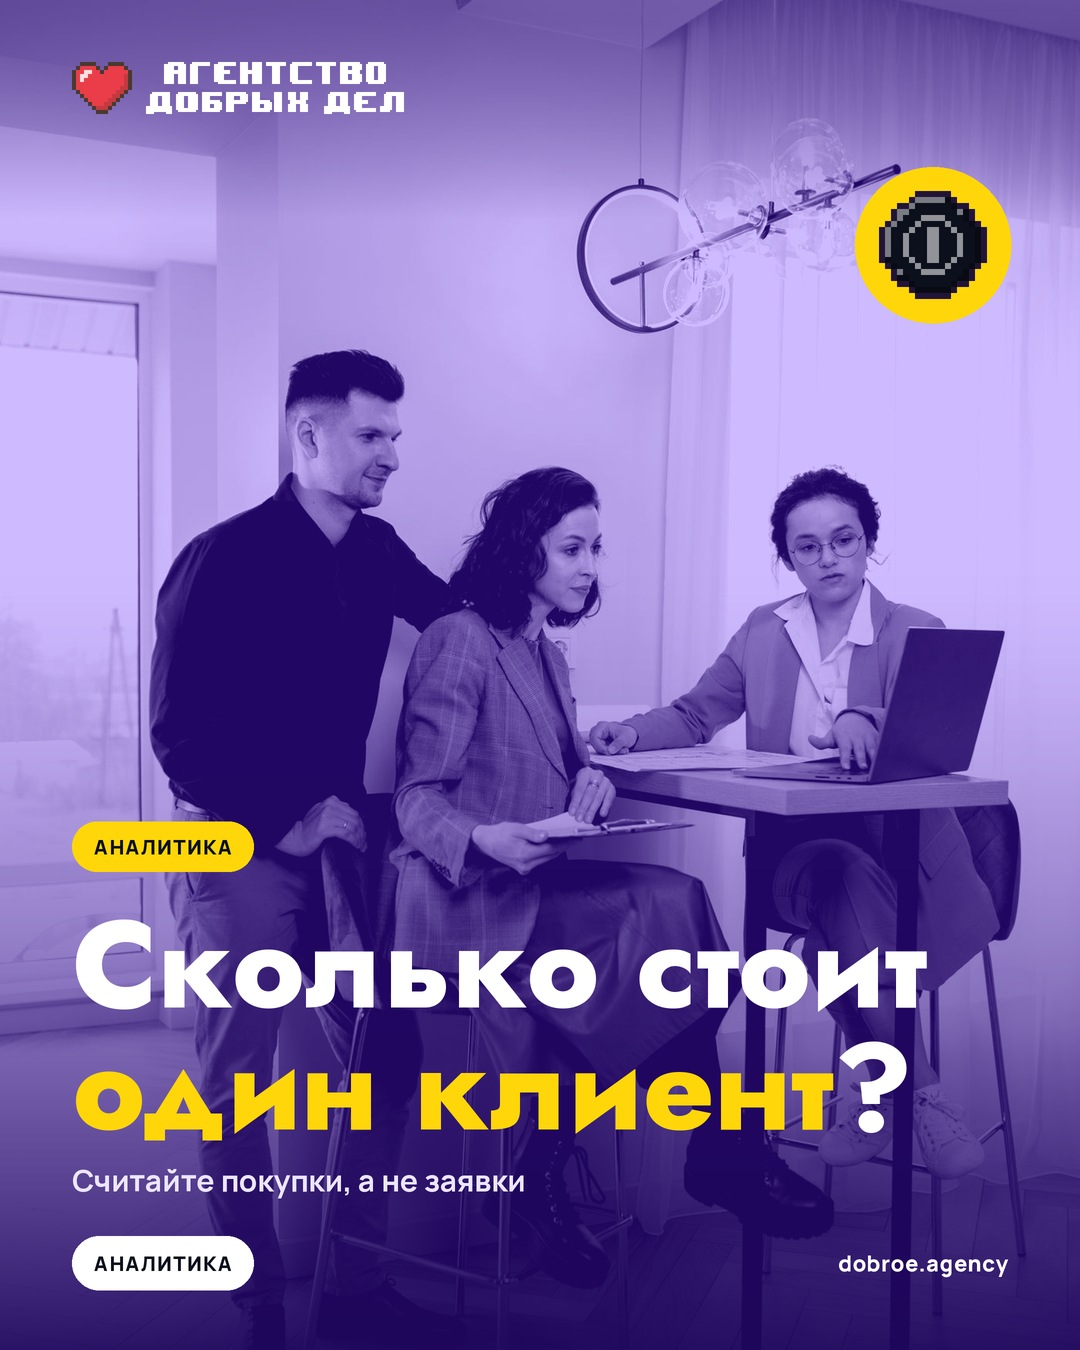
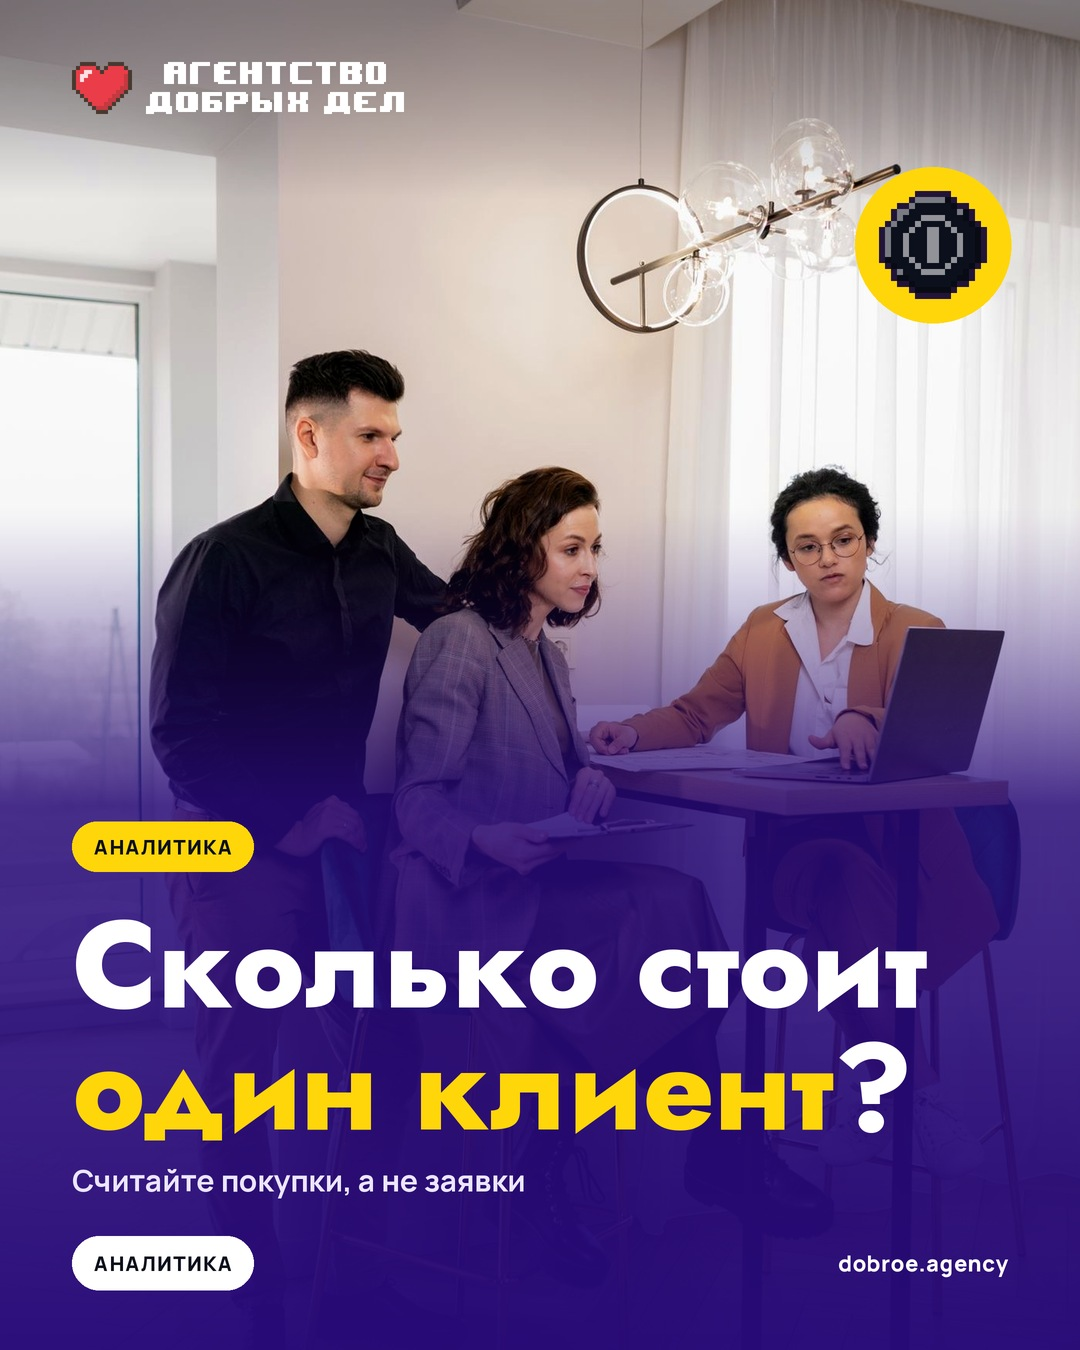
Макет photo: фото в естественных цветах, тон - только подложка под текстом; перерисованы фото-посты 15-21.11
Claude-Session: https://claude.ai/code/session_013hygokiFc3UAV7jtVext4a

diff --git a/templates/render.py b/templates/render.py
@@ -1561,13 +1561,21 @@ def fade(c, y0, y1, color, a0=0, a1=235):
 
 
 PHOTO_TONES = {
-    # тон: (тёмный, светлый) для дуотона; None = естественные цвета
-    "violet": ((34, 6, 100), (206, 186, 255)),
-    "night": ((10, 14, 30), (190, 176, 255)),
-    "orange": ((70, 20, 60), (255, 190, 110)),
-    "mint": ((6, 60, 60), (170, 255, 220)),
-    "natural": None,
+    # тон = цвет подложки под текстом; само фото остаётся в естественных цветах (владелец 14.11: «фото живее», стиль сайта)
+    "violet": (40, 10, 120),
+    "night": (12, 12, 30),
+    "orange": (160, 55, 10),
+    "mint": (0, 74, 66),
+    "natural": (22, 20, 28),
 }
+
+
+def grade(im, sat=1.12, contrast=1.06, bright=1.02):
+    """лёгкая обработка: чуть сочнее и контрастнее, без перекраски"""
+    from PIL import ImageEnhance
+    im = ImageEnhance.Color(im).enhance(sat)
+    im = ImageEnhance.Contrast(im).enhance(contrast)
+    return ImageEnhance.Brightness(im).enhance(bright)
 
 
 def L_photo(c, cfg):
@@ -1576,21 +1584,40 @@ def L_photo(c, cfg):
     if tone not in PHOTO_TONES:
         raise Fail(f"tone: {', '.join(PHOTO_TONES)}")
     im = photo_img(cfg["photo"], px(W), px(H), cfg.get("focus", 0.35))
-    if PHOTO_TONES[tone]:
-        im = duotone(im, *PHOTO_TONES[tone])
+    im = grade(im)
     c.im = im.convert("RGBA")
     c.refresh()
     top = cfg.get("text_top", False)
-    shade = (30, 6, 90) if tone in ("violet", "natural") else PHOTO_TONES[tone][0]
+    shade = PHOTO_TONES[tone]
     if top:
-        g = np.linspace(225, 0, px(760), dtype=np.float32)[:, None].astype(np.uint8)
+        s0, f0, l0 = fit(c, cfg["title"], "jost", 800, W - 2 * M, 400, 122, smin=60, lh=1.0, max_lines=4)
+        sub0 = cfg.get("subtitle")
+        sh0 = (len(plain_wrap(c, sub0, font("sans", 30, 700), W - 2 * M)) * 30 * 1.35 + 20) if sub0 else 0
+        y_end = int(170 + len(l0) * s0 + sh0 + 40)
+        hh = y_end + 280
+        t = np.linspace(0, hh, px(hh), dtype=np.float32)
+        g = np.where(t < y_end, 225, 225 * (1 - (t - y_end) / 280) ** 1.4).clip(0, 255).astype(np.uint8)[:, None]
         A = Image.fromarray(np.repeat(g, px(W), axis=1), "L")
-        T = Image.new("RGBA", (px(W), px(760)), tuple(shade) + (0,))
+        T = Image.new("RGBA", (px(W), px(hh)), tuple(shade) + (0,))
         T.putalpha(A)
         c.paste(T, 0, 0)
+        fade(c, 1150, H, shade, 0, 200)
     else:
-        fade(c, 560, H, shade, 0, 238)
-        fade(c, 0, 220, shade, 120, 0)
+        # подложка начинается над заголовком и быстро густеет, чтобы белый текст читался на светлом фото
+        s0, f0, l0 = fit(c, cfg["title"], "jost", 800, W - 2 * M, 400, 122, smin=60, lh=1.0, max_lines=4)
+        sub0 = cfg.get("subtitle")
+        sh0 = (len(plain_wrap(c, sub0, font("sans", 30, 700), W - 2 * M)) * 30 * 1.35 + 20) if sub0 else 0
+        ty = 1200 - len(l0) * s0 - sh0 - (90 if cfg.get("chip") else 0)
+        y_start = max(380, int(ty - 300))
+        h = px(H - y_start)
+        t = np.linspace(0, 1, h, dtype=np.float32)[:, None]
+        k = min(1.0, 300 / (H - y_start))
+        al = np.where(t < k, 215 * (t / k) ** 1.2, 215 + 35 * (t - k) / max(1e-3, 1 - k)).clip(0, 250).astype(np.uint8)
+        A = Image.fromarray(np.repeat(al, px(W), axis=1), "L")
+        L = Image.new("RGBA", (px(W), h), tuple(shade) + (0,))
+        L.putalpha(A)
+        c.paste(L, 0, px(y_start))
+        fade(c, 0, 200, (12, 10, 24), 95, 0)
     logo(c, dark=True)
     if cfg.get("label"):
         pill(c, W - M, 66, cfg["label"], WHITE, outline=WHITE, right=True)

diff --git a/README.md b/README.md
@@ -16,7 +16,7 @@
 
 **Картинки должны быть разными, яркими и с минимумом текста** (владелец: «однообразные и очень много текста»). Правила:
 - **Картинка - крючок, а не статья.** На картинке максимум 26 слов (рендер сам падает, если больше). Заголовок 3-7 слов. Пунктов максимум 3, по 1-3 слова. Всё остальное - в подпись.
-- **Живые фото (владелец 27.10: «фотографии более реалистичные»).** Каждый 2-й пост (и обложка каждой 2-й карусели) - макет `photo`: настоящее фото из `assets/photos/` (каталог и смысл фото - `assets/photos/PHOTOS.md`) на весь кадр, в фирменном тоне `tone` = `violet` | `night` | `orange` | `mint` | `natural`, крупный заголовок 3-7 слов, по желанию `chip`, `icon`, `subtitle`. Фото подбирай по смыслу темы. Одно фото - не чаще 1 раза на 15 постов, `tone` не повторяется 2 поста подряд. `focus` (0-1) - какую часть фото по высоте показать, `text_top: true` - текст сверху, если лицо внизу. Обязательно проверь глазами, что текст не закрывает лицо. Новые фото - только с бесплатных стоков с коммерческой лицензией (Pexels, Unsplash), не с Pinterest и не из Google.
+- **Живые фото (владелец 27.10: «фотографии более реалистичные»).** Каждый 2-й пост (и обложка каждой 2-й карусели) - макет `photo`: настоящее фото из `assets/photos/` (каталог и смысл фото - `assets/photos/PHOTOS.md`) на весь кадр в естественных цветах (владелец 14.11: «фото живее»; фото не перекрашивается, `tone` - цвет подложки под текстом) = `violet` | `night` | `orange` | `mint` | `natural`, крупный заголовок 3-7 слов, по желанию `chip`, `icon`, `subtitle`. Фото подбирай по смыслу темы. Одно фото - не чаще 1 раза на 15 постов, `tone` не повторяется 2 поста подряд. `focus` (0-1) - какую часть фото по высоте показать, `text_top: true` - текст сверху, если лицо внизу. Обязательно проверь глазами, что текст не закрывает лицо. Новые фото - только с бесплатных стоков с коммерческой лицензией (Pexels, Unsplash), не с Pinterest и не из Google.
 - **Остальные посты - яркие афиши:** `poster` (огромный заголовок + большая картинка), `bignum` (одно огромное число + фраза), `vs` (две половины «плохо / хорошо»), `stickers` (2-3 больших цветных стикера). Вместе с `photo` они - минимум 2 поста из каждых 3.
 - **Реалистичные экраны - макет `screen`** (владелец 02.11: «разнообразнее и реалистичнее»): крупный заголовок 3-7 слов + настоящий на вид экран: поиск Google (`serp`), объявление Google Ads (`ads`), профиль Instagram из живых фото (`insta`), сайт dobroe.agency (`site`), таблица заявок по каналам (`sheet`), карточка на картах 2ГИС/Google (`maps`), уведомления о заявках на телефоне (`notify`). Темы - как у афиш. Текст внутри экрана (поле `ui`) - только пример «как это выглядит» (vash-sait.kg, «Кофейня «Ваше название»»), не выдавать за клиентов и без выдуманных цифр. Не чаще 1 поста из 4, один и тот же `screen` - не чаще 1 раза на 8 постов. Примеры - `templates/examples/screen_*.json`. Только одиночные посты и истории (в карусель не ставить).
 - Старые макеты (`steps`, `checklist`, `compare`, `chat`, `stat`, `news`, `myth`, `dark`, `pixel`, `marquee`, `hero`, `team`, `quote`) - не чаще 1 поста из 3, и тоже не больше 26 слов.
